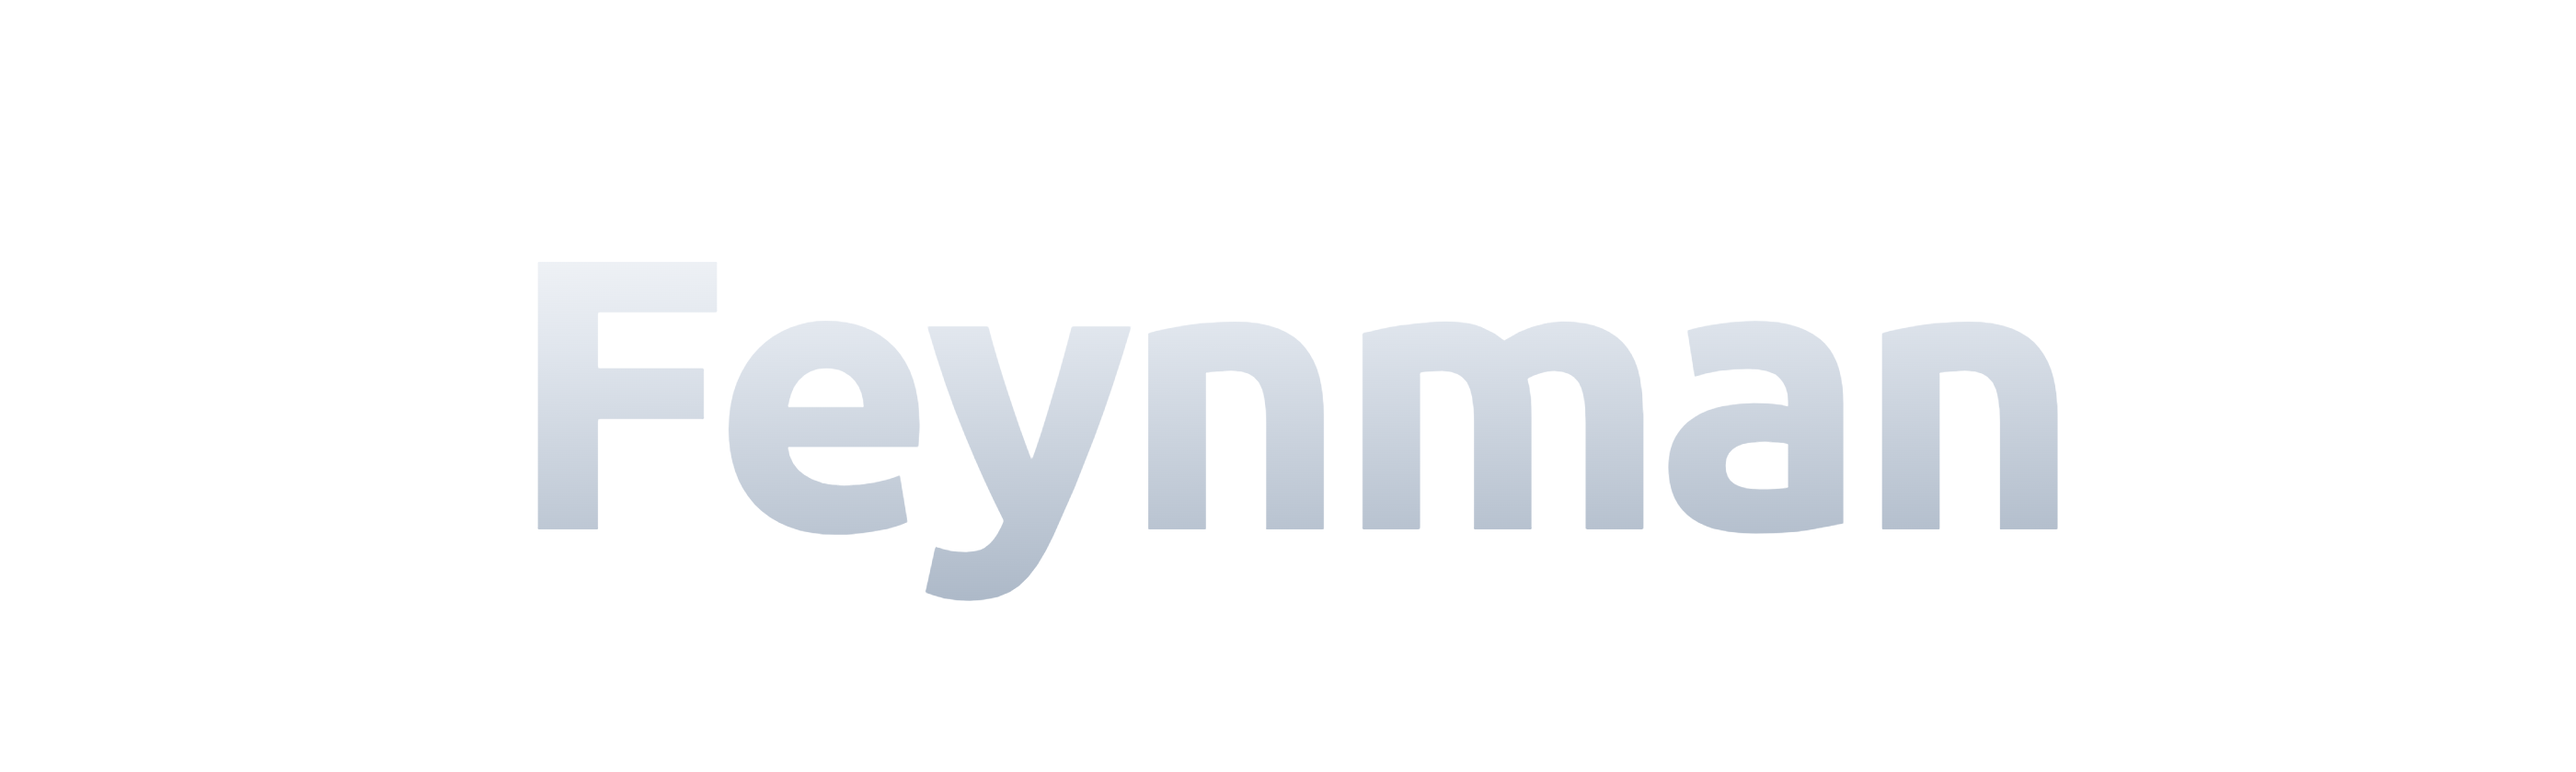
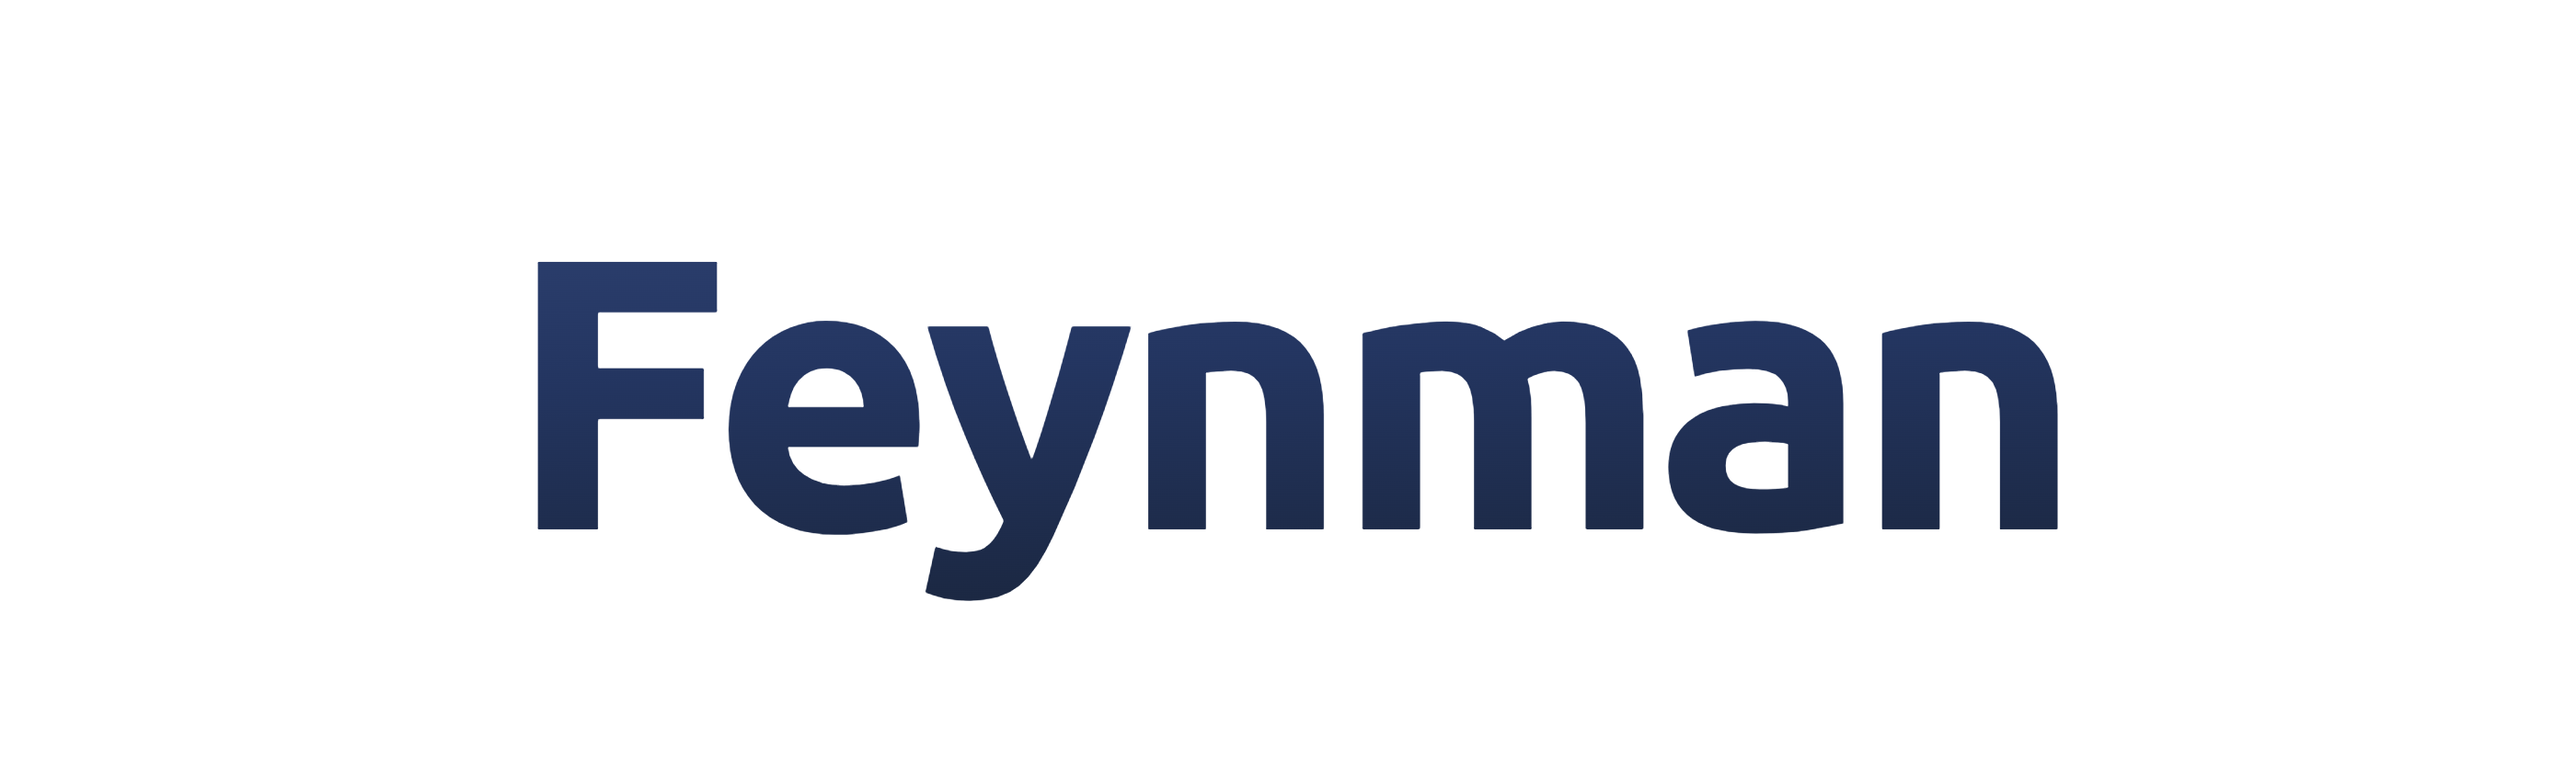
The mark in navy, because the sign-in card is white
The pale steel mark was made against a dark ground and vanished on Cloudflare's
sign-in card, which is white whatever the page background is set to. The word is
now the brand navy, and each mark keeps a dark-ground twin beside it under
`-on-dark`.

The plain filenames stay the light-ground versions on purpose: the sign-in page
already points at `feynman-name.png`, and this way the address that is written
down elsewhere does not change.

Changed region(s): [[0.1864, 0.3405, 0.8079, 0.7738]]

diff --git a/README.md b/README.md
@@ -1,6 +1,6 @@
 # Feynman — brand marks
 
-Two images, and nothing else.
+Four images, and nothing else.
 
 This repository is public for one reason: Cloudflare Access takes a **URL** for
 the logo on its sign-in page, and the browser fetches that URL while drawing the
@@ -13,14 +13,21 @@ Nothing else belongs in here. No source, no configuration, no documents.
 
 ## The files
 
-| File | Size | Use |
-| --- | --- | --- |
-| `feynman-name.png` | 2800×840 | The word on its own, transparent ground. **This is the one the sign-in page uses** — that slot renders small, so a second line inside the image would be unreadable. |
-| `feynman-wordmark.png` | 2800×920 | Both lines locked up together, for anywhere the mark is shown large. |
+Each mark comes in two versions, because a mark that reads on one ground
+disappears on the other. The plain name is the one for a **light** ground, which
+is what Cloudflare draws its sign-in card on.
 
-Ubuntu Bold, letter-spacing tightened, with a steel gradient through the
-letterforms. Intended for a dark ground — `#0b0e12` is the one they were made
-against.
+| File | Ground | Size | Use |
+| --- | --- | --- | --- |
+| `feynman-name.png` | light | 2800×840 | **The sign-in page uses this one.** The word alone, in the brand navy. That slot renders small, so a second line inside the image would be unreadable — it goes in Cloudflare's Header text field instead. |
+| `feynman-name-on-dark.png` | dark | 2800×840 | The same word in pale steel, for a dark ground. |
+| `feynman-wordmark.png` | light | 2800×920 | Both lines locked up, navy, for anywhere the mark is shown large. |
+| `feynman-wordmark-on-dark.png` | dark | 2800×920 | The same lockup in pale steel. |
+
+Ubuntu Bold with the letter-spacing tightened, over a slight gradient; the
+second line is JetBrains Mono, wide-tracked. The light versions are the brand
+navy `#1e3664`, the dark versions a steel `#dfe6ee` made against `#0b0e12`. All
+four have transparent backgrounds.
 
 ## The address
 
@@ -29,7 +36,7 @@ https://raw.githubusercontent.com/Joshd667/feynman-brand/main/feynman-name.png
 ```
 
 Served as `image/png` with `Access-Control-Allow-Origin: *`, cached for five
-minutes — so a replacement takes up to five minutes to show up.
+minutes — so a replacement takes up to five minutes to appear.
 
 The masters live with the product, in the private repository at
 `docs/self-hosted-web/brand/`. Change them there first; this is a copy that
